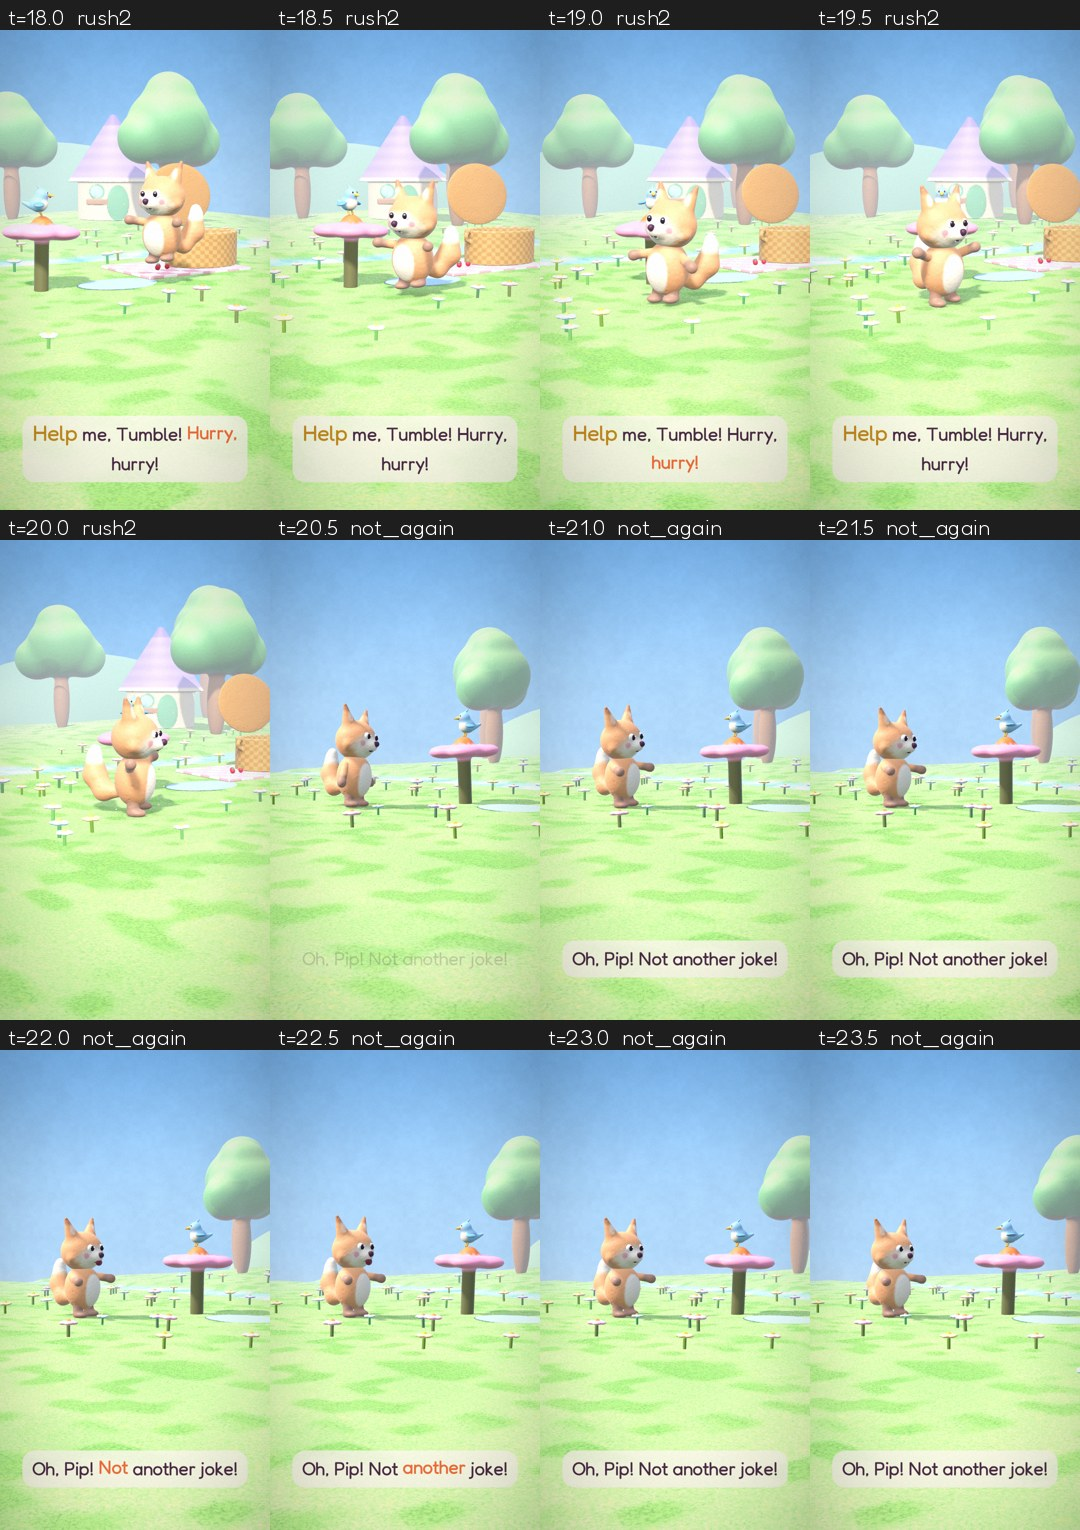
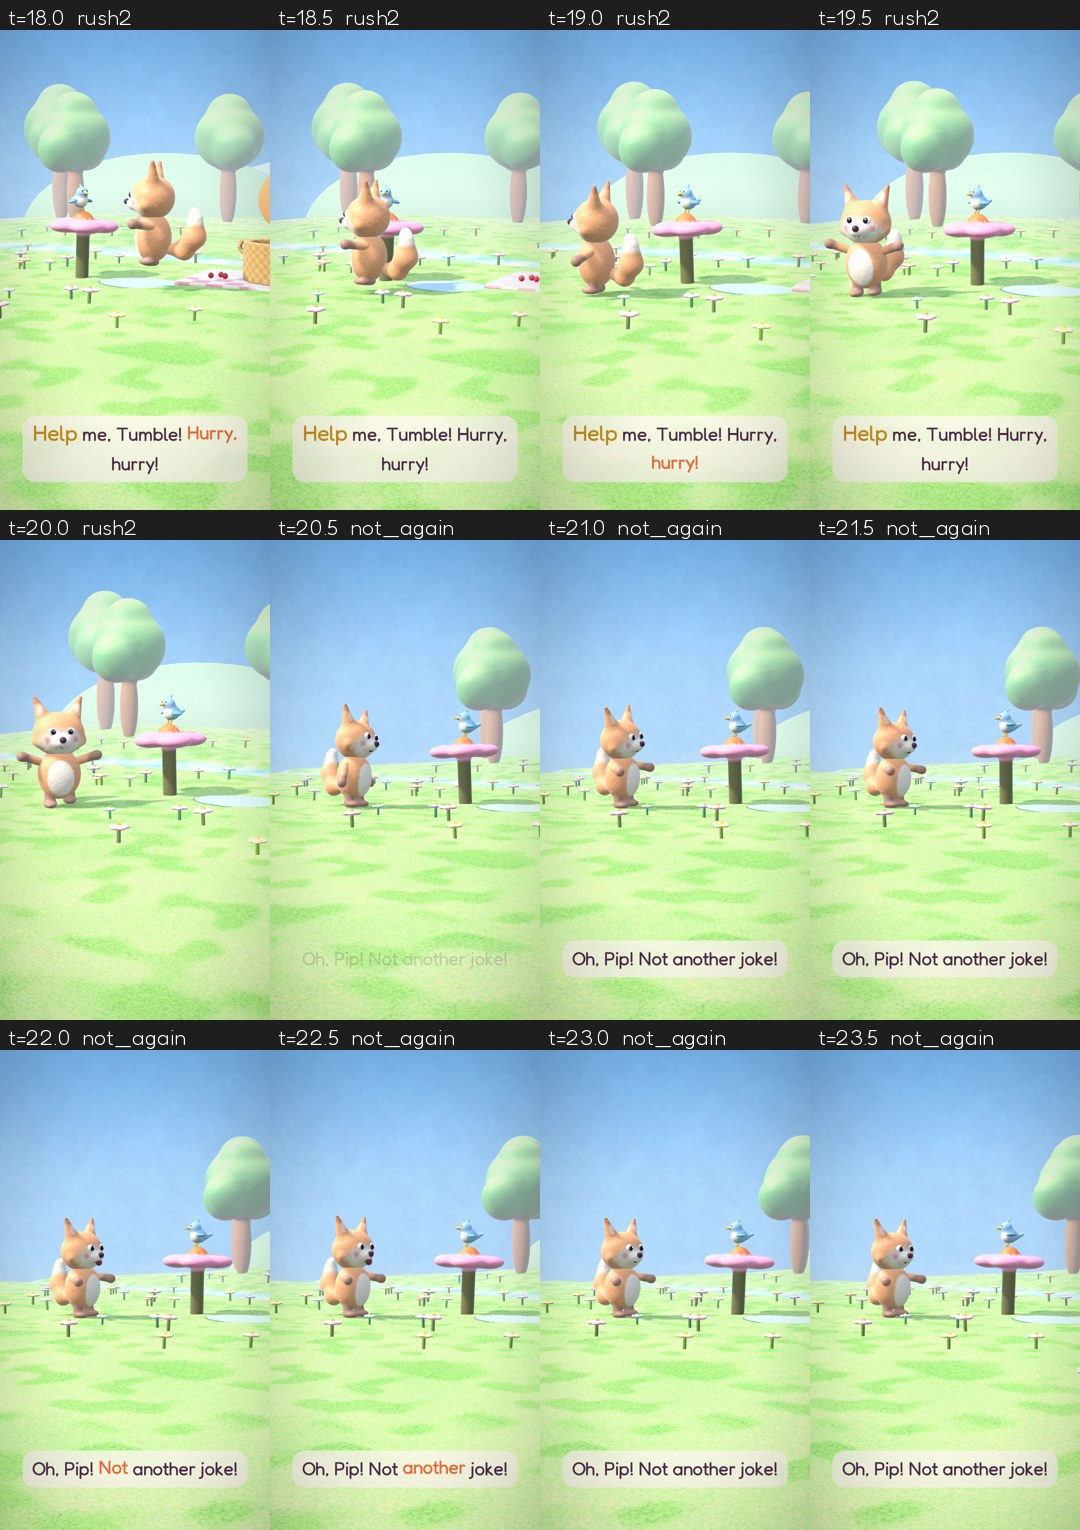
Fable 8: review round 2 fixes (rush2 camera, hug with cuddling paw, lid set-down timing, rescue camera)
Claude-Session: https://claude.ai/code/session_015sJeG8C6rLnCDSthJi3ZZJ

diff --git a/batches/01-fables-friendship/fable-08-pip-who-cried-help/code/render.py b/batches/01-fables-friendship/fable-08-pip-who-cried-help/code/render.py
@@ -24,7 +24,7 @@ FLOOR = BASE_Y + 0.09 * BS                                               # insid
 LX, LY, LZ = 0.98, 0.07, 0.80                                            # lid half-sizes (a flattened clay ball)
 HINGE = np.array([BASKET[0], RIM + 0.06, BASKET[1] - LZ])               # hinged on the basket's back edge
 LID_OPEN = 1.72                                                          # standing open, leaning back a little past upright
-LOWER_T = T.POP + 0.5                                                      # he sets the lid down once Pip is out, before the hug
+LOWER_T = T.POP + 0.35                                                     # he sets the lid down once Pip is out, before the hug
 LIFT_A = 0.55                                                            # how far Tumble raises the lid
 LID_TINT = (0.80, 0.58, 0.36)
 PIP_IN = np.array([BASKET[0] - 0.1, FLOOR - 0.033, BASKET[1] + 0.05]) + UP      # Pip inside, on the basket floor
@@ -55,7 +55,7 @@ def lid_angle(t):
             a += 0.035 * max(0.0, math.sin(t * 13)) * clampu(t, SH["muffled"][0], SH["muffled"][0] + 0.3)
         return a
     if t < LOWER_T: return LIFT_A * ease(clampu(t, T.LIFT, T.LIFT + 0.4))   # Tumble lifts the lid
-    return LIFT_A * (1 - ease(clampu(t, LOWER_T, LOWER_T + 0.3)))          # and lowers it gently once Pip is out
+    return LIFT_A * (1 - ease(clampu(t, LOWER_T, LOWER_T + 0.45)))          # and lowers it gently once Pip is out
 def basket_rock(t):
     if SH["muffled"][0] <= t < T.LIFT: return 0.03 * math.sin(t * 13) * clampu(t, SH["muffled"][0], SH["muffled"][0] + 0.3)
     return 0.0
@@ -100,7 +100,14 @@ def lift_arms(st, t):
         if DEBUG_LIFT: print('lift', k, round(d0, 3), round(d1, 3))
         _arm_cache[k] = [list(a) for a in s2["arms"]]
     st["arms"] = [list(a) for a in _arm_cache[k]]
-HUG_ARMS = [list(DANCE_ARM) + [0.0], [0.3, 1.0, 0.62]]            # Pip on his left paw (the moral's pose), right paw tucked in around him
+def hug_arms():
+    """left paw holds Pip out (the moral's pose); the right paw reaches round behind him for a cuddle"""
+    if "hug" not in _arm_cache:
+        st = dict(tumble_base(0.0), x=MSPOT[0], z=MSPOT[1], yaw=-0.05); st["arms"] = [list(DANCE_ARM) + [0.0], [0.3, 0.3, 0.0]]
+        seat0 = paw_seat(fox_mats(st)[2])
+        solve_arm(st, 1, seat0 + np.array([-0.45, 0.0, -0.05]), side=(-0.2, 1.6), fwd=(-0.3, 2.5), n=30, inward=(0.0, 0.3, 0.6, 0.9, 1.2))
+        _arm_cache["hug"] = [list(DANCE_ARM) + [0.0], st["arms"][1]]
+    return _arm_cache["hug"]
 def tumble(t):
     st = tumble_base(t); n = T.shot_at(t)[1]
     st["x"], st["z"] = T_HOME; st["yaw"] = RUN_YAW
@@ -191,12 +198,12 @@ def tumble(t):
             if t >= T.LIFT - 0.2: st["yaw"] = LIFT_YAW
         else:
             st["x"], st["z"] = LIFTPT; st["yaw"] = LIFT_YAW
-        if T.LIFT - 0.1 <= t < LOWER_T + 0.3:
+        if T.LIFT - 0.1 <= t < LOWER_T + 0.5:
             lift_arms(st, t); st["head"][0] = -0.1
-        if t >= T.CUDDLE - 0.35:                                        # the hug: paws to his chest for Pip
-            u = ease(clampu(t, T.CUDDLE - 0.35, T.CUDDLE))
-            st["yaw"] = lerp(LIFT_YAW, -0.05, u); st["x"] += 0.3 * u                 # steps back from the basket as he turns
-            st["arms"] = lerp([list(a) + [0.0] * (3 - len(a)) for a in st["arms"]], HUG_ARMS, u).tolist(); st["head"][0] = 0.05 * u
+        if t >= T.CUDDLE - 0.25:                                        # the hug: paws to his chest for Pip
+            u = ease(clampu(t, T.CUDDLE - 0.25, T.CUDDLE))
+            st["yaw"] = lerp(LIFT_YAW, -0.05, u); st["head"][1] = 0.0; st["x"] += 0.3 * u                 # steps back from the basket as he turns
+            st["arms"] = lerp([list(a) + [0.0] * (3 - len(a)) for a in st["arms"]], hug_arms(), u).tolist(); st["head"][0] = 0.15 * u; st["head"][2] = -0.1 * u
             if t > T.CUDDLE + 0.2: st["roll"] = 0.05 * math.sin((t - T.CUDDLE) * 5)
     elif n in ("moral", "chorus"):
         st["x"], st["z"] = MSPOT
@@ -282,7 +289,7 @@ def pip_state(t, st, mats):
         if u < 1:                                                       # flies in low and in front of his face, then lands on the paw
             mid = seat + np.array([0.3, -0.2, 0.9])
             return legs3([hov, mid, seat], u), look(hov, face), True, 0.0, False, {"gentle": True}
-        return seat, look(seat, face), False, 0.0, True, {"cheer": True}
+        return seat, look(seat, face), False, 0.0, True, {"tuck": True}
     if n in ("moral", "chorus"):
         return dance_pip(t, st, mats, n)                                # already on his paw from the hug (across the cut)
     a, b = SH["button_crane"]                                           # hops over to sit on the closed lid
@@ -313,7 +320,7 @@ def camera(t):
         return fit_cam(np.array([lerp(FLOPPT[0], T_HOME[0], 0.5), 1.1, lerp(FLOPPT[1], T_HOME[1], 0.5)]), 25, 8, 2.0, 1.6)
     if name == "rush2":                                                 # wide side, tracking the leap, the skid and the spin
         cx = lerp(T_HOME[0] - 0.8, SPINPT[0] + 0.9, ease(clampu(t, T.RUN2, T.SPIN + 0.3)))
-        return fit_cam(np.array([cx, 1.15, -0.45]), -32, 8, 2.8, 1.7)
+        return fit_cam(np.array([cx, 1.15, -0.45]), 28, 8, 2.8, 1.7)
     if name == "not_again":                                             # two-shot, Tumble and Pip on the flower
         c = lerp(np.array([SPINPT[0], 1.25, SPINPT[1]]), PIP_FLOWER, 0.45)
         return fit_cam(c, side_on_yaw(np.array([SPINPT[0], 0, SPINPT[1]]), PIP_FLOWER, 100) + lerp(-4, 4, e), 4, 3.0, 1.9)
@@ -324,8 +331,8 @@ def camera(t):
     if name == "is_it_a_joke":
         return fit_cam(np.array([SPINPT[0] + 0.15, 1.45, SPINPT[1]]), 38, 4, 1.0, 1.15)
     if name == "rescue":                                                # side-on to Tumble and the basket front
-        c = np.array([BASKET[0] + 0.95, 1.1, BASKET[1] - 0.1])
-        return fit_cam(c, -16, 7, 2.0, 1.5)
+        c = np.array([BASKET[0] + 0.7, 1.15, BASKET[1] - 0.2])
+        return fit_cam(c, -30, 9, 2.1, 1.5)
     if name == "moral":
         return fit_cam(np.array([MSPOT[0] + 0.25, lerp(1.35, 1.45, e), MSPOT[1]]), lerp(-12, -6, e), 5, lerp(1.3, 1.1, e), lerp(1.4, 1.15, e))
     if name == "chorus":
